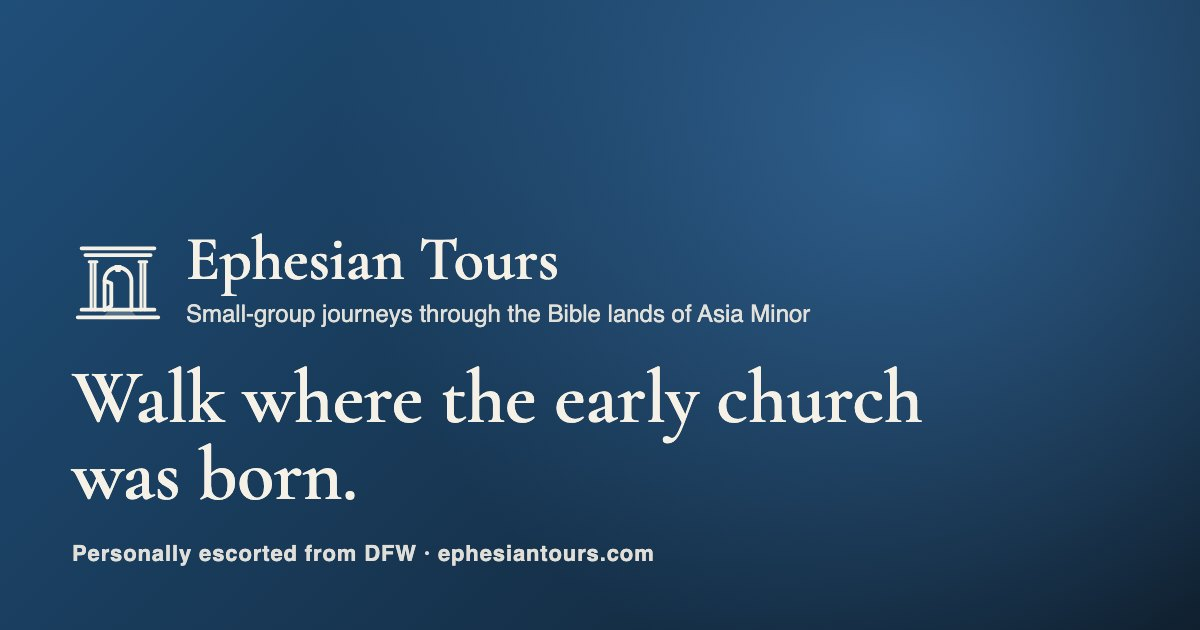
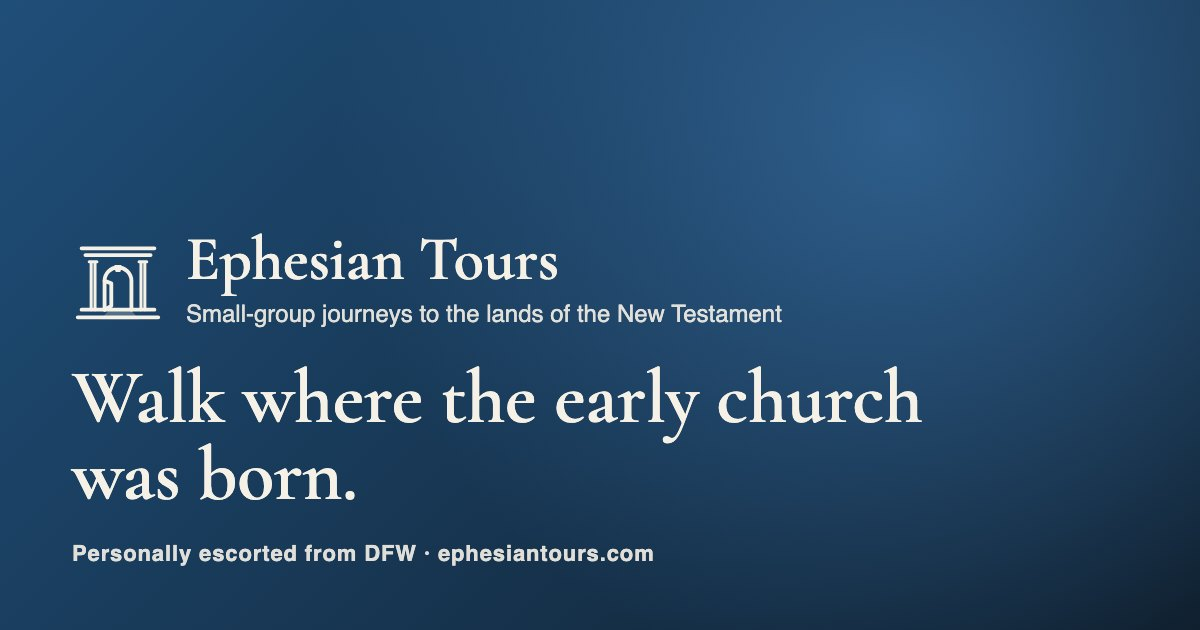
New descriptor: Small-group journeys to the lands of the New Testament
Updated in site.yaml (header, hero, footer, JSON-LD, OG image) and README;
brand assets regenerated with make_brand.py.

Changed region(s): [[0.3392, 0.4825, 0.6783, 0.5127]]

diff --git a/README.md b/README.md
@@ -2,7 +2,7 @@
 
 *An open door to the lands of the Bible.*
 
-Small-group journeys through the Bible lands of Asia Minor for American church groups, personally escorted from Dallas–Fort Worth. Land arrangements are operated by Azim Tours (Kuşadası, Türkiye; TÜRSAB license no. 938).
+Small-group journeys to the lands of the New Testament for American church groups, personally escorted from Dallas–Fort Worth. Land arrangements are operated by Azim Tours (Kuşadası, Türkiye; TÜRSAB license no. 938).
 
 **Status:** in development. Preview builds use sample itineraries and pricing.
 
